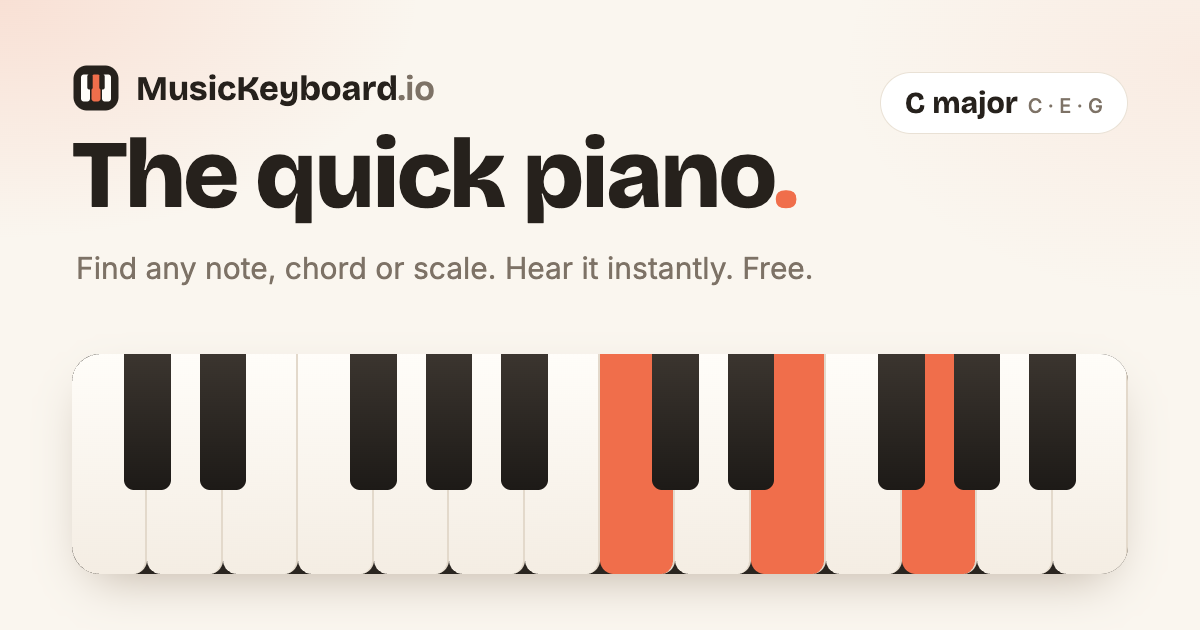
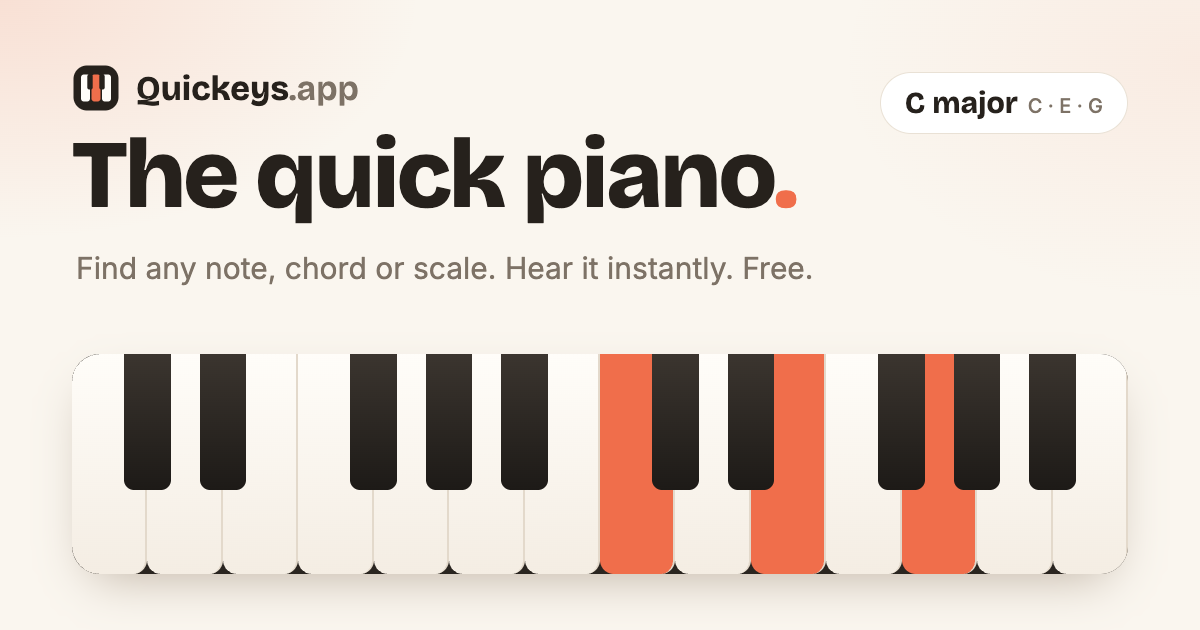
Rebrand to Quickeys (quickeys.app) and host on Vercel

Changed region(s): [[0.0925, 0.1206, 0.37, 0.181]]

diff --git a/src/pages/Home.jsx b/src/pages/Home.jsx
@@ -21,7 +21,7 @@ const POPULAR_SCALES = [
 const HOME_FAQ = [
   ['How do I play the piano online?', 'Click or tap the keys, or use your computer keyboard: the Q–P row and the number row play the first octaves, Z–. and A–L continue above. Hold Space for the sustain pedal and use the arrow keys to move the keyboard up or down an octave.'],
   ['How do I find a chord on the piano?', 'Type its name in the search box, like "Am7", "F#m" or "Do mayor". The notes light up on the keyboard and the chord plays. You can also pick one of the popular chords below or browse the full chord chart.'],
-  ['Can it tell me which chord I am playing?', 'Yes. Play two or more notes and MusicKeyboard.io names the interval or chord instantly, including inversions (like C/E) and seventh, ninth and suspended chords.'],
+  ['Can it tell me which chord I am playing?', 'Yes. Play two or more notes and Quickeys names the interval or chord instantly, including inversions (like C/E) and seventh, ninth and suspended chords.'],
   ['Does it work on phones and tablets?', 'Yes. It works in any modern browser with multi-touch, nothing to install. Swipe the keyboard sideways or use the octave buttons to move around.'],
   ['Is it free?', 'Completely free, with no sign-up. Your settings (colours, note names, zoom, volume) are saved in your browser.'],
   ['Which notes does the keyboard cover?', 'Six octaves of recorded acoustic piano, from C2 to B7 (72 keys), tuned to A4 = 440 Hz.'],
@@ -29,7 +29,7 @@ const HOME_FAQ = [
 
 const Home = () => {
   useHead({
-    title: 'Online Piano – Find Any Note, Chord or Scale Instantly | MusicKeyboard.io',
+    title: 'Online Piano – Find Any Note, Chord or Scale Instantly | Quickeys',
     description:
       'A quick, free online piano. Play with your mouse, touch or computer keyboard, type any chord or scale to see it on the keys, and get the chord you play named instantly. No sign-up.',
     path: '/',

diff --git a/src/pages/Privacy.jsx b/src/pages/Privacy.jsx
@@ -4,7 +4,7 @@ import { useHead } from '../seo/head';
 const CONTACT = 'alonsog.jaime@gmail.com';
 
 const SECTIONS = [
-  ['Introduction', 'We respect your privacy. This policy explains how MusicKeyboard.io handles information related to cookies and third-party technologies, such as Google AdSense, used to display advertisements.'],
+  ['Introduction', 'We respect your privacy. This policy explains how Quickeys handles information related to cookies and third-party technologies, such as Google AdSense, used to display advertisements.'],
   ['Information we collect', 'We do not collect personal data. Your piano settings (accent colour, theme, note names, zoom, volume…) are stored only in your own browser with local storage and are never sent to us. Third parties such as Google may collect information through cookies to show relevant or personalised ads.'],
   ['Cookies', 'Cookies are small text files placed on your device. This site may use necessary cookies and third-party advertising cookies. Google uses cookies to deliver relevant and personalised ads; see https://policies.google.com/technologies/ads for details. You can manage your ad preferences at https://adssettings.google.com.'],
   ['Your consent', 'Before third-party cookies are loaded, we ask for your consent through a cookie banner. If you accept, Google and other partners may use cookies to personalise ads. If you decline, only non-personalised ads are shown.'],
@@ -15,8 +15,8 @@ const SECTIONS = [
 
 const Privacy = () => {
   useHead({
-    title: 'Privacy Policy | MusicKeyboard.io',
-    description: 'How MusicKeyboard.io handles cookies, advertising and your settings.',
+    title: 'Privacy Policy | Quickeys',
+    description: 'How Quickeys handles cookies, advertising and your settings.',
     path: '/privacy',
   });
   return (

diff --git a/src/pages/ChordPage.jsx b/src/pages/ChordPage.jsx
@@ -29,7 +29,7 @@ const ChordPage = () => {
   const names = chord?.notes.map((n) => n.name) ?? [];
 
   useHead(chord ? {
-    title: `${chord.symbol} Piano Chord – ${chord.name} (${names.join(' ')}) | MusicKeyboard.io`,
+    title: `${chord.symbol} Piano Chord – ${chord.name} (${names.join(' ')}) | Quickeys`,
     description: `The ${chord.name} chord (${chord.symbol}) on piano: notes ${names.join(', ')}. Hear it, see it on an interactive keyboard, and learn its formula and inversions.`,
     path: chordPath(chord),
     type: 'article',
@@ -42,10 +42,10 @@ const ChordPage = () => {
         name: `${chord.name} chord`,
         alternateName: [chord.symbol, chord.root.alt && chord.root.alt + chord.quality.symbol].filter(Boolean),
         description: `A ${chord.quality.name} chord built on ${chord.root.name}: ${names.join(', ')}.`,
-        inDefinedTermSet: 'https://musickeyboard.web.app/chords',
+        inDefinedTermSet: 'https://quickeys.app/chords',
       },
     ],
-  } : { title: 'Chord not found | MusicKeyboard.io', description: 'This chord does not exist.', noindex: true });
+  } : { title: 'Chord not found | Quickeys', description: 'This chord does not exist.', noindex: true });
 
   if (!chord) return <NotFound />;
 

diff --git a/scripts/prerender.js b/scripts/prerender.js
@@ -7,7 +7,7 @@ import { fileURLToPath, pathToFileURL } from 'node:url';
 const root = join(dirname(fileURLToPath(import.meta.url)), '..');
 const out = join(root, 'build');
 const ssrDir = join(root, 'build-ssr');
-const SITE = 'https://musickeyboard.web.app';
+const SITE = 'https://quickeys.app';
 
 const { render, ROUTES, CHORDS, SCALES, notes, chordPath, scalePath } = await import(
   pathToFileURL(join(ssrDir, 'entry-server.js')).href
@@ -69,7 +69,7 @@ write('api/notes.json', JSON.stringify(noteData));
 // llms.txt (https://llmstxt.org)
 write(
   'llms.txt',
-  `# MusicKeyboard.io
+  `# Quickeys
 
 > A quick, free online piano for finding notes, chords and scales. Play it with a mouse, touch or computer keyboard; search any chord or scale to see and hear it; play notes to get the chord named. 72 keys (C2–B7), recorded piano, A4 = 440 Hz.
 
@@ -102,7 +102,7 @@ Every page below is static HTML with the full content. Note names use sharps or 
 
 write(
   'llms-full.txt',
-  `# MusicKeyboard.io – full chord and scale reference
+  `# Quickeys – full chord and scale reference
 
 ## Chords (notes from the root)
 

diff --git a/src/pages/ScalePage.jsx b/src/pages/ScalePage.jsx
@@ -31,7 +31,7 @@ const ScalePage = () => {
   const names = scale?.notes.map((n) => n.name) ?? [];
 
   useHead(scale ? {
-    title: `${titleCase(scale.name)} Scale on Piano – Notes ${names.join(' ')} | MusicKeyboard.io`,
+    title: `${titleCase(scale.name)} Scale on Piano – Notes ${names.join(' ')} | Quickeys`,
     description: `The ${scale.name} scale on piano: ${names.join(', ')}. Pattern ${stepPattern(scale)}. Hear it and see it on an interactive keyboard${chords.length ? ', with its chords' : ''}.`,
     path: scalePath(scale),
     type: 'article',
@@ -39,7 +39,7 @@ const ScalePage = () => {
       breadcrumbs([['Piano', '/'], ['Scales', '/scales'], [capital(scale.name), scalePath(scale)]]),
       faq(scaleFaq(scale, chords)),
     ],
-  } : { title: 'Scale not found | MusicKeyboard.io', description: 'This scale does not exist.', noindex: true });
+  } : { title: 'Scale not found | Quickeys', description: 'This scale does not exist.', noindex: true });
 
   if (!scale) return <NotFound />;
 

diff --git a/src/components/layout/Header.jsx b/src/components/layout/Header.jsx
@@ -20,10 +20,10 @@ const SCHEMES = [
 
 const Header = () => (
   <header className="mx-auto flex w-full max-w-6xl flex-wrap items-center gap-x-6 gap-y-2 px-4 pt-4 sm:px-6 sm:pt-6">
-    <Link to="/" className="flex items-center gap-2.5" aria-label="MusicKeyboard.io home">
+    <Link to="/" className="flex items-center gap-2.5" aria-label="Quickeys home">
       <Logo className="h-8 w-8" />
       <span className="font-display text-lg font-bold tracking-tight">
-        MusicKeyboard<span className="text-muted font-semibold">.io</span>
+        Quickeys<span className="text-muted font-semibold">.app</span>
       </span>
     </Link>
     <nav className="order-last -mx-1 flex w-full gap-1 overflow-x-auto sm:order-none sm:w-auto" aria-label="Main">

diff --git a/src/pages/ScalesIndex.jsx b/src/pages/ScalesIndex.jsx
@@ -5,7 +5,7 @@ import { breadcrumbs, useHead } from '../seo/head';
 
 const ScalesIndex = () => {
   useHead({
-    title: `Piano Scales: Major, Minor, Pentatonic, Blues & Modes in Every Key | MusicKeyboard.io`,
+    title: `Piano Scales: Major, Minor, Pentatonic, Blues & Modes in Every Key | Quickeys`,
     description: 'Every piano scale in all 12 keys: major, natural/harmonic/melodic minor, pentatonic, blues, Dorian, Phrygian, Lydian, Mixolydian and Locrian. Notes, patterns and chords, on an interactive keyboard.',
     path: '/scales',
     jsonLd: [breadcrumbs([['Piano', '/'], ['Scales', '/scales']])],

diff --git a/src/pages/ChordsIndex.jsx b/src/pages/ChordsIndex.jsx
@@ -5,7 +5,7 @@ import { breadcrumbs, useHead } from '../seo/head';
 
 const ChordsIndex = () => {
   useHead({
-    title: `Piano Chords Chart: All ${CHORDS.length} Chords in Every Key | MusicKeyboard.io`,
+    title: `Piano Chords Chart: All ${CHORDS.length} Chords in Every Key | Quickeys`,
     description: `Interactive piano chord chart: major, minor, 7th, maj7, m7, sus, dim, aug, 9th and more in all 12 keys. See the notes on a keyboard and hear every chord.`,
     path: '/chords',
     jsonLd: [breadcrumbs([['Piano', '/'], ['Chords', '/chords']])],

diff --git a/src/pages/FrequencyChart.jsx b/src/pages/FrequencyChart.jsx
@@ -11,7 +11,7 @@ const QA = [
 
 const FrequencyChart = () => {
   useHead({
-    title: 'Piano Note Frequency Chart (Hz) – C2 to B7, A4 = 440 Hz | MusicKeyboard.io',
+    title: 'Piano Note Frequency Chart (Hz) – C2 to B7, A4 = 440 Hz | Quickeys',
     description: 'Frequency in hertz of every piano note from C2 to B7 in standard tuning (A4 = 440 Hz, equal temperament). Click any note to hear it.',
     path: '/frequency-chart',
     jsonLd: [breadcrumbs([['Piano', '/'], ['Note frequencies', '/frequency-chart']]), faq(QA)],

diff --git a/index.html b/index.html
@@ -12,7 +12,7 @@
   <script>
     // Apply the saved theme before the first paint (no flash).
     try {
-      var s = JSON.parse(localStorage.getItem('musickeyboard:settings') || '{}');
+      var s = JSON.parse(localStorage.getItem('quickeys:settings') || '{}');
       var d = s.colorScheme === 'dark' || (s.colorScheme !== 'light' && matchMedia('(prefers-color-scheme: dark)').matches);
       if (d) document.documentElement.classList.add('dark');
       if (s.accent) document.documentElement.dataset.accent = s.accent;

diff --git a/src/App.test.jsx b/src/App.test.jsx
@@ -53,7 +53,7 @@ describe('prerendering', () => {
   it('renders a page with its head tags', () => {
     const { html, head } = renderPage('/scales/d-dorian');
     expect(head).toContain('<title data-head>D Dorian Scale on Piano');
-    expect(head).toContain('rel="canonical" href="https://musickeyboard.web.app/scales/d-dorian"');
+    expect(head).toContain('rel="canonical" href="https://quickeys.app/scales/d-dorian"');
     expect(head).toContain('"@type":"FAQPage"');
     expect(html).toContain('D Dorian');
   });

diff --git a/src/pages/NotFound.jsx b/src/pages/NotFound.jsx
@@ -2,7 +2,7 @@ import { Link } from 'react-router-dom';
 import { useHead } from '../seo/head';
 
 const NotFound = () => {
-  useHead({ title: 'Page not found | MusicKeyboard.io', description: 'This page does not exist.', path: '/404', noindex: true });
+  useHead({ title: 'Page not found | Quickeys', description: 'This page does not exist.', path: '/404', noindex: true });
   return (
     <div className="card mx-auto max-w-xl p-10 text-center">
       <p className="font-mono text-sm text-accent">404</p>
